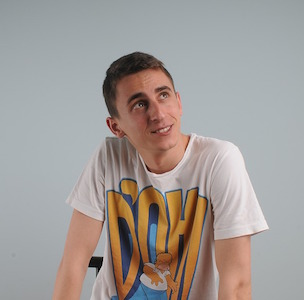
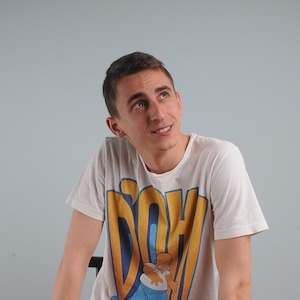
Resized persona1.jpg to the correct height.

diff --git a/epic/index.php b/epic/index.php
@@ -22,7 +22,7 @@
 				<h3>Personas</h3><br>
 				<div class="row">
 					<div class="col-md-6 personaborder">
-						<img src="../images/persona1.jpg" alt="Persona 1" class="img-circle img-responsive center-block"><br>
+						<img src="../images/persona1.jpg" alt="Persona 1" class="img-circle img-responsive center-block" height="300" width="300"><br>
 						<p class="text-center">Persona 1</p>
 					</div>
 					<div class="col-md-6 personaborder">
